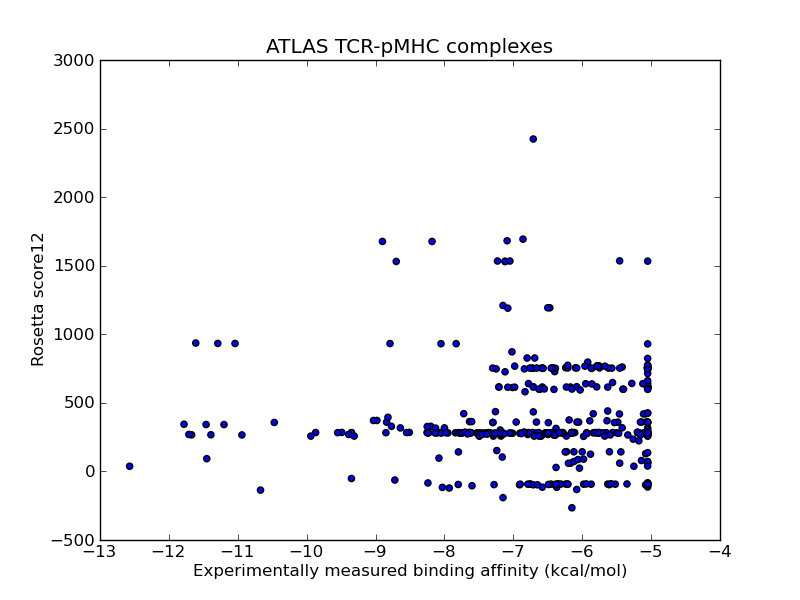
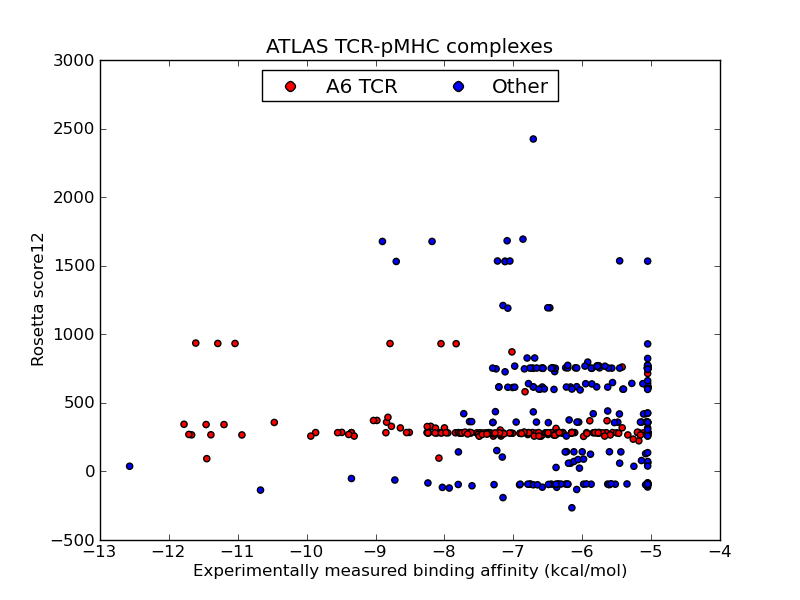
minor tweaks and changes

Changed region(s): [[0.3125, 0.09, 0.7188, 0.18], [0.5312, 0.69, 0.8125, 0.75], [0.4688, 0.69, 0.5, 0.72]]

diff --git a/scoring/plot_score12_results.py b/scoring/plot_score12_results.py
@@ -3,6 +3,7 @@
 import argparse
 import numpy as np
 import matplotlib.pyplot as plt
+from matplotlib import lines
 import re
 from sklearn import linear_model
 
@@ -27,11 +28,13 @@ def load_data(fh):
 	dGs = []
 	dG_bind_score12 = []
 	score12=[]
+	TCR_name = []
 	header = fh.readline().strip().split('\t')
 	dG_col = header.index('DeltaG_kcal_per_mol')
 	Kd_col = header.index('Kd_microM')
 	dG_bind_score12_col = header.index('dG_bind_score12')
 	score12_col = header.index('score12')
+	name_col = header.index('TCRname')
 
 
 	for line in fh:
@@ -51,14 +54,14 @@ def load_data(fh):
 		if dG > -5.05:
 				dG = -5.05
 		dGs.append(dG)
-
 		dG_bind_score12.append(float(split_line[dG_bind_score12_col]))
 		score12.append(float(split_line[score12_col]))
+		TCR_name.append(split_line[name_col])
 
 	dGs = np.array(dGs)
 	dG_bind_score12 = np.array(dG_bind_score12)
 	score12 = np.array(score12)
-	return dGs, dG_bind_score12, score12
+	return dGs, dG_bind_score12, score12, TCR_name
 
 def add_constant(X):
 	'''
@@ -94,7 +97,7 @@ def main():
 	IN = open(args.infile, 'r')
 	
 	# Load data and normalize
-	dGs, dG_bind_score12, score12 =  load_data(IN)
+	dGs, dG_bind_score12, score12, TCR_name =  load_data(IN)
 	
 
 	# Stats
@@ -128,7 +131,18 @@ def main():
 	plt.ylabel('Rosetta dG bind with score12')
 	plt.savefig('dG_bind_score12_prediction_scatterplot.png')
 	plt.clf()
-	plt.scatter(dGs, score12)
+	A6_ind = [i for i, x in enumerate(TCR_name) if x == 'A6']
+	rem_ind = [i for i, x in enumerate(TCR_name) if x != 'A6']
+	plt.scatter(dGs[A6_ind], score12[A6_ind], c='r')
+	plt.scatter(dGs[rem_ind], score12[rem_ind], c='b')
+	my_labels=('A6 TCR', 'Other')
+	markers = ['o', 'o', 'o']
+	colors = ['r', 'b']
+	my_handles = []
+	for i in range(len(my_labels)):
+		my_handles.append(lines.Line2D([],[], marker=markers[i], markerfacecolor=colors[i], linestyle='None', 
+			markeredgecolor='k',markersize=7,markeredgewidth=1,label=my_labels[i]))
+	plt.legend(tuple(my_handles), tuple(my_labels), ncol=2, loc='upper center', numpoints=1)
 	plt.title('ATLAS TCR-pMHC complexes')
 	plt.xlabel('Experimentally measured binding affinity (kcal/mol)')
 	plt.ylabel('Rosetta score12')

diff --git a/scoring/linear_reg.py b/scoring/linear_reg.py
@@ -118,7 +118,7 @@ def main():
 	print 'Pearson\'s r: ' + str(r[0,1])
 	print '*******************************'
 	
-	print list(weight_matrix)
+	print np.mean(weight_matrix, axis = 0)
 	plt.plot(range(-15,1), range(-15,1), c='r')
 	plt.xlim(-13,-4)
 	plt.ylim(-12,-3)
